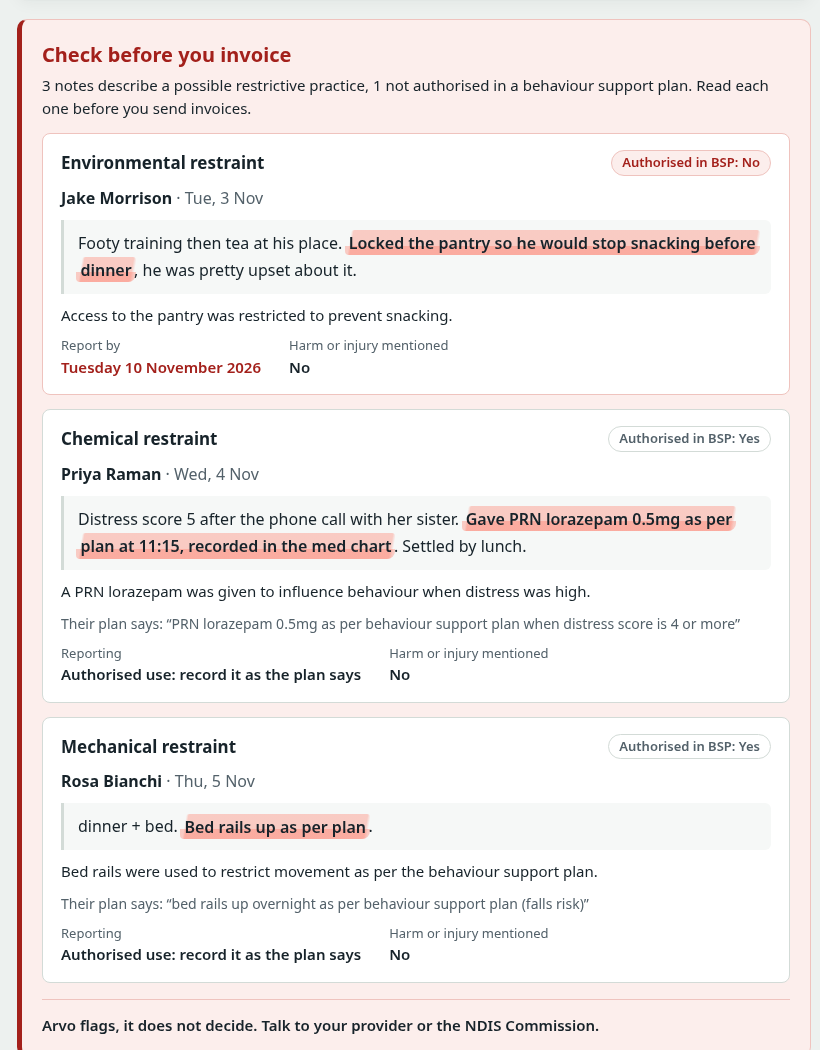
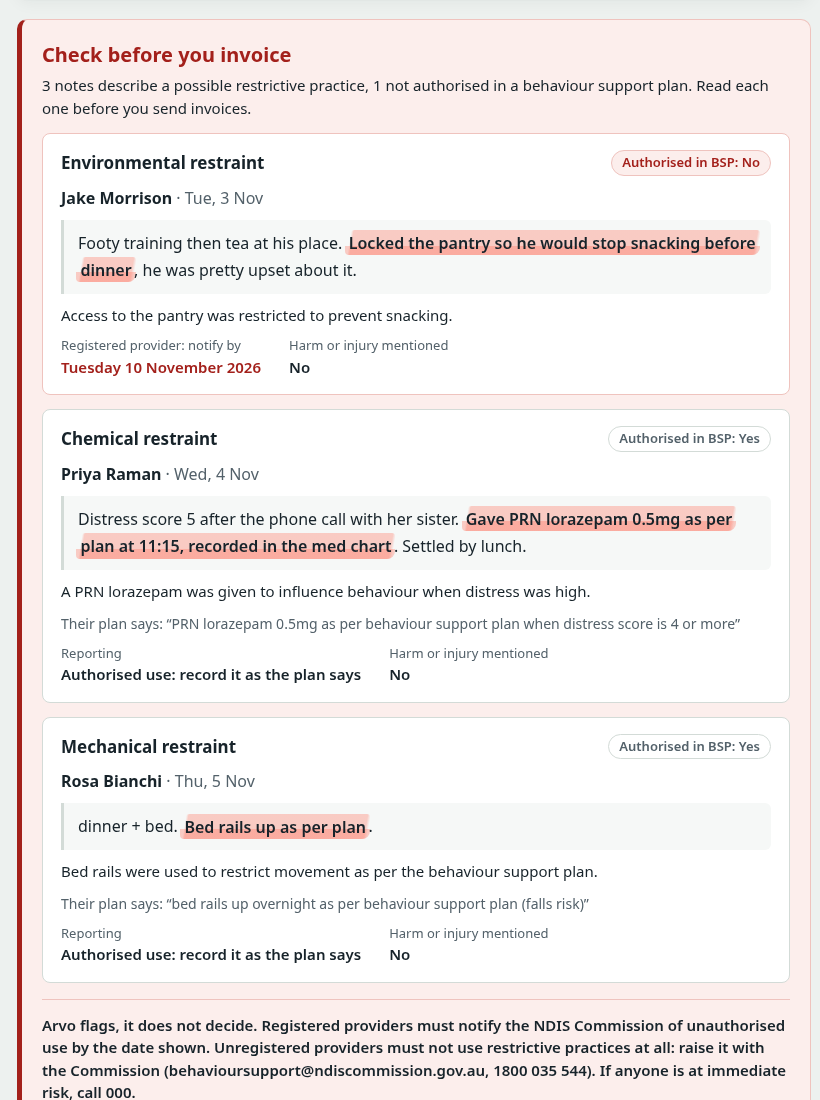
Screenshots match current UI wording

Changed region(s): [[0.0305, 0.0305, 0.9756, 1.0], [0.7622, 0.6705, 0.9451, 0.7314], [0.7317, 0.3657, 0.9451, 0.4267]]

diff --git a/DEV_POST.md b/DEV_POST.md
@@ -45,11 +45,11 @@ Three lines from the demo week (ending Sunday 8 November 2026):
 | `Thurs night - Mrs B again 7pm-9:30pm` | nonna, 2026-11-05, 19:00-21:30 | Crosses 8pm, so s2.4(c): the whole support goes in the higher band | `01_015_0107_1_1` Weekday Evening, 2.5 h x $81.07 = **$202.68** |
 | `Sun - T.O. 10-3 ... 22 km` | tom, 2026-11-08, 10:00-15:00, 22 km | Sunday band; km claimed as Activity Based Transport | `04_106_0125_6_1` Sunday, 5 h x $133.50 = **$667.50**, plus 22 km x $0.99 = $21.78 |
 
-![The "Check before you invoice" panel: the pantry note flagged as an environmental restraint, not authorised, report by Tuesday 10 November 2026; the PRN and bed-rail notes flagged as authorised, "record it as the plan says"](https://raw.githubusercontent.com/Otto-Deviant1904/arvo/main/docs/img/flags.png)
+![The "Check before you invoice" panel: the pantry note flagged as an environmental restraint, not authorised, with a registered-provider notify-by date of Tuesday 10 November 2026; the PRN and bed-rail notes flagged as authorised, "record it as the plan says"](https://raw.githubusercontent.com/Otto-Deviant1904/arvo/main/docs/img/flags.png)
 
 The flags for the same week:
 
-- **Red.** "Locked the pantry so he would stop snacking before dinner": environmental restraint, not authorised, report by Tue 10 Nov 2026.
+- **Red.** "Locked the pantry so he would stop snacking before dinner": environmental restraint, not authorised; a registered provider would have to notify by Tue 10 Nov 2026.
 - **Authorised, record only.** "Gave PRN lorazepam 0.5mg as per plan at 11:15" (chemical) and "Bed rails up as per plan" (mechanical) match the authorisations in Priya's and Nonna's roster entries. Still restrictive practices, still shown, no report-by date.
 - **Not flagged.** "He asked me to hang onto his phone during the game." Holding a phone because the person asked is not a restraint.
 
